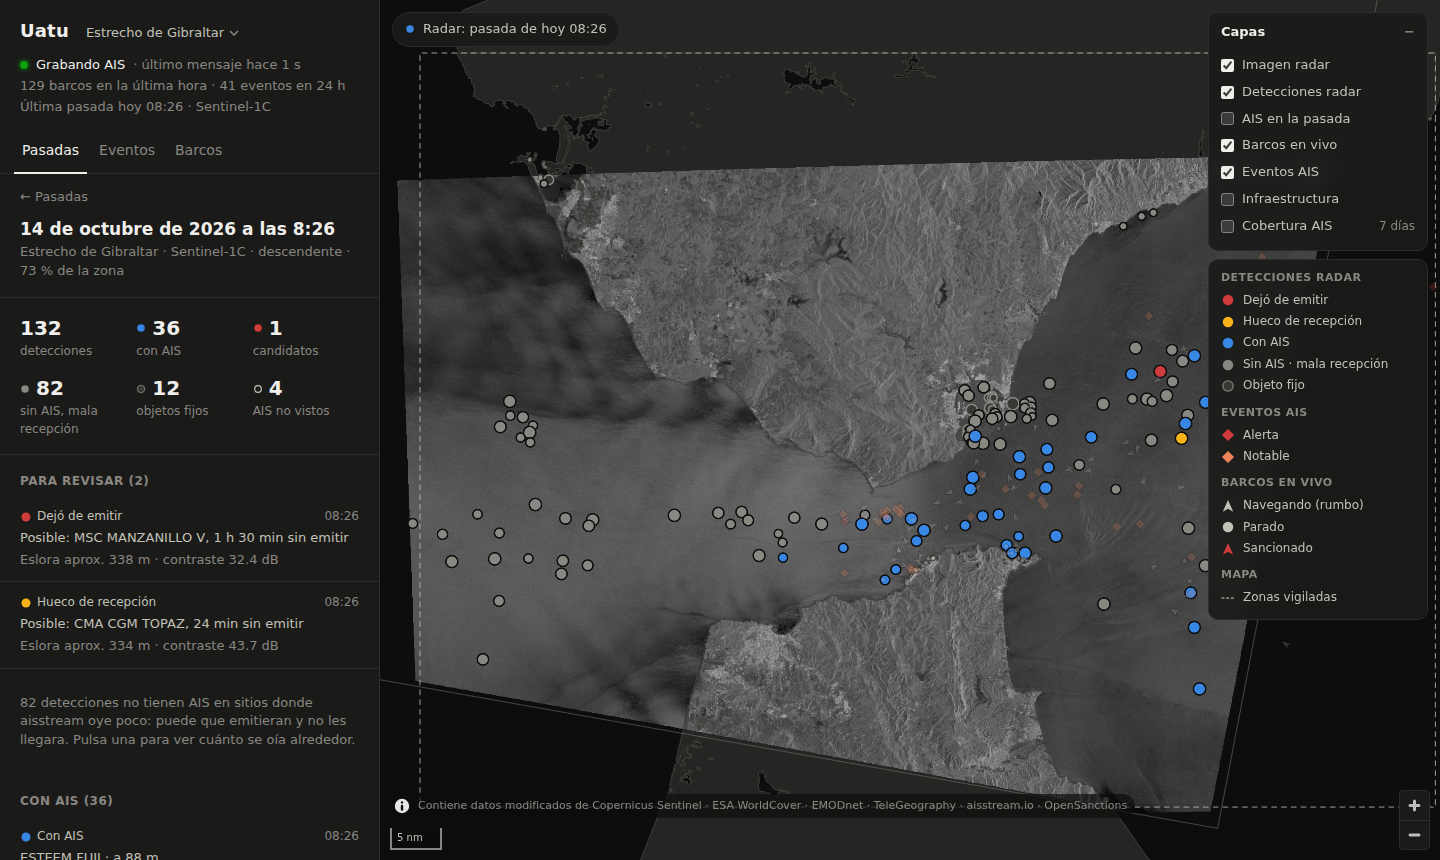
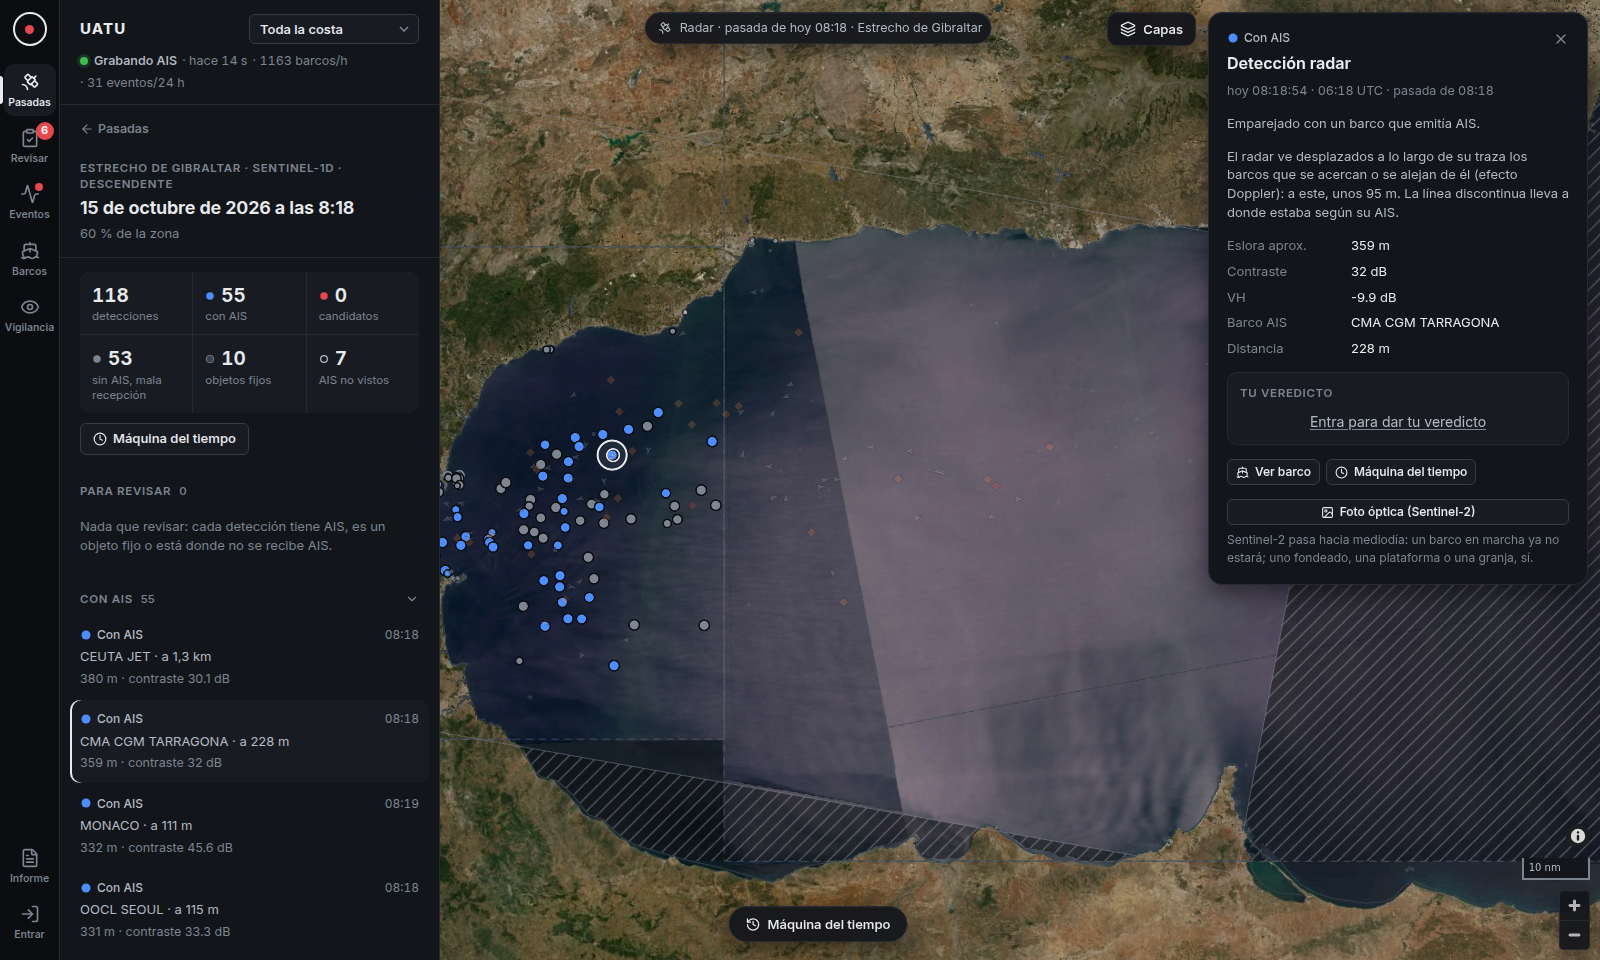
The README's screenshot, of the new dashboard

diff --git a/README.md b/README.md
@@ -7,7 +7,7 @@ but that are not broadcasting AIS, and the ones that are broadcasting but deserv
 (sanctioned tankers sailing under new names, transponders switched off at sea, ship-to-ship
 meetings, vessels idling over submarine cables).
 
-![The dashboard on the Strait of Gibraltar: a Sentinel-1 pass, each radar detection coloured by what AIS says about it](docs/dashboard.png)
+![The dashboard on the Strait of Gibraltar: a Sentinel-1 pass, each radar detection coloured by what AIS says about it, one of them open in the inspector](docs/dashboard.png)
 
 Running 24/7 on a homelab since 13 October 2026: the Strait of Gibraltar first, then the whole
 coast from Gibraltar to Cap de Creus and the Balearic Islands, in six zones brought into the
